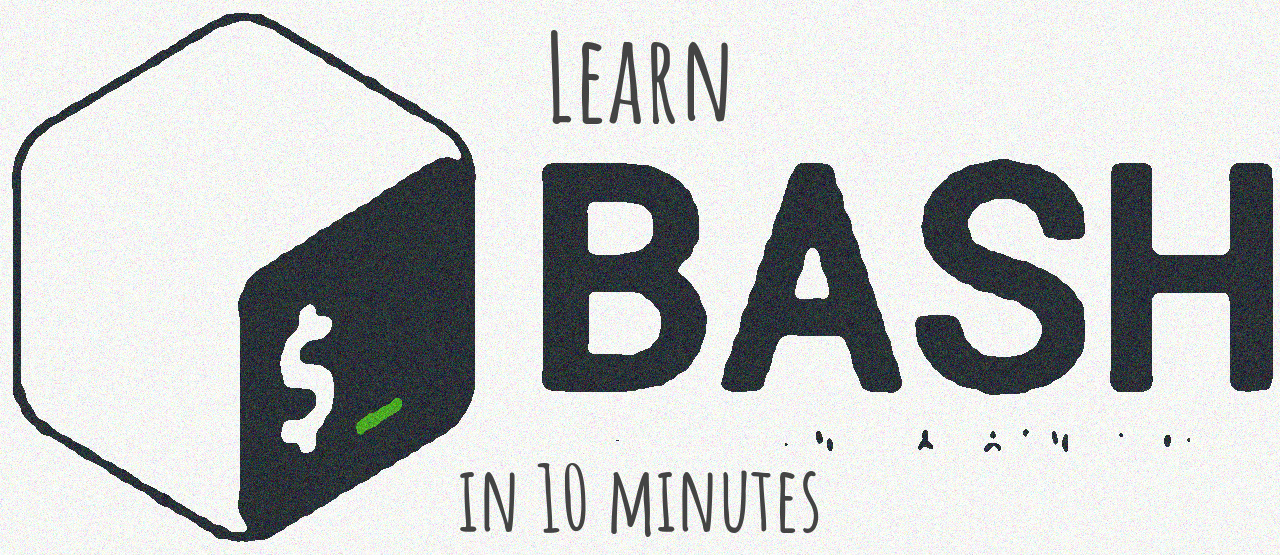
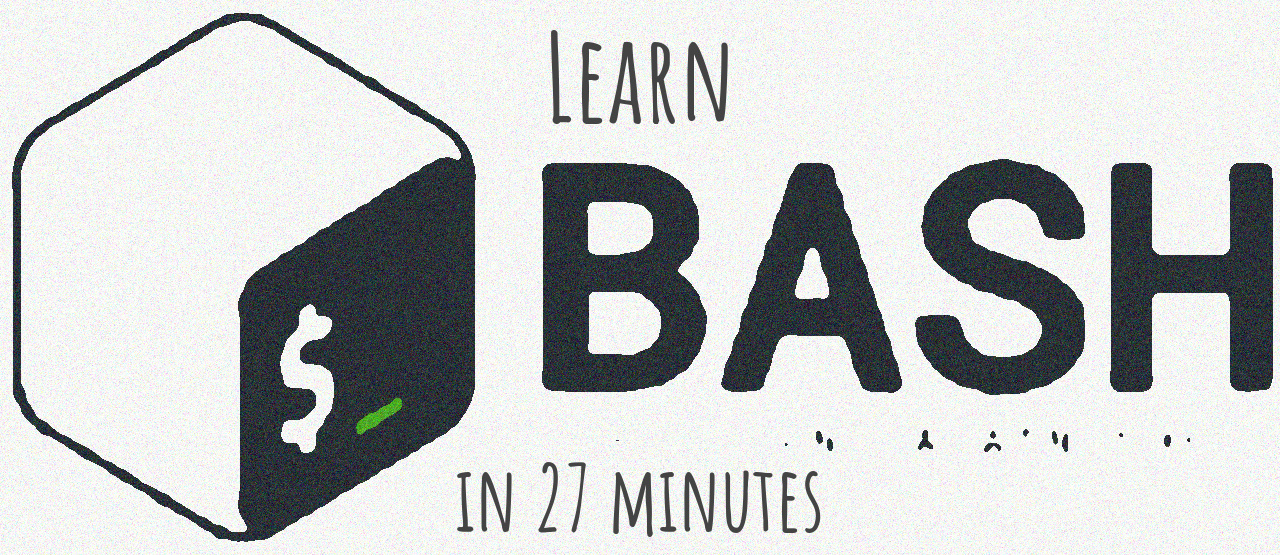
update to 27 minutes

diff --git a/README.md b/README.md
@@ -168,6 +168,12 @@ echo "Output"             # writes "Output" to stdout = terminal
 echo "Output" >&2         # writes "Output" to stderr = terminal
 program 2> /dev/null > output.txt # write stdout to output.txt, and ignore stderr
 program &> /output.txt    # redirect both stdout and stderr to output.txt
+
+find . -name "*.txt" \
+| while read -r file ; do # while read is a good way to run some code for each line
+      output="$(basename "$file" .txt).out"
+      [[ ! -f "$output" ]] && < "$file" sort > "$output"
+  done
 ```
 ## Pipes
 The `|` (pipe) character is bash's superpower. It allows you to build sophisticated chains of programs, 
@@ -189,14 +195,26 @@ cat *.txt | grep -v '^#' | sort | uniq -c | sort -nr | head -5
 script_name=$(basename "$0" .sh | tr "[:upper:]" "[:lower:]")
 ```
 ## Processes
+```bash
+(                         # ( ... ) starts a new subshell with its own stdin/stdout
+cat *.txt
+curl -s https://host/archive.txt
+) | sort
 
+start_in_background &     # start the program and return immediately, don't wait for it to end
+
+git commit -a && git push   # 'git push' will only execute if 'git commit -a' finished without errors
+```
 
 ## Error handling
-* `set -uo pipefail`
+* `set -uo pipefail`: stop the script when errors happen
 * install [shellcheck](https://github.com/koalaman/shellcheck), ideally in your IDE
 
-
 ## Go and script!
+- use a strong bash boilerplate template like [pforret/bashew](https://github.com/pforret/basher)
+- discover all the [SS64 Linux tools for Bash](https://ss64.com/bash/)
+- [Learn bash in Y minutes](https://learnxinyminutes.com/docs/bash/) 
 
-- [SS64 Linux tools for Bash](https://ss64.com/bash/)
-- [Learn X in Y minutes](https://learnxinyminutes.com/docs/bash/) 
+## Advanced Bash
+- [Awesome Bash](https://github.com/awesome-lists/awesome-bash)
+- [Bash pitfalls](https://mywiki.wooledge.org/BashPitfalls)
